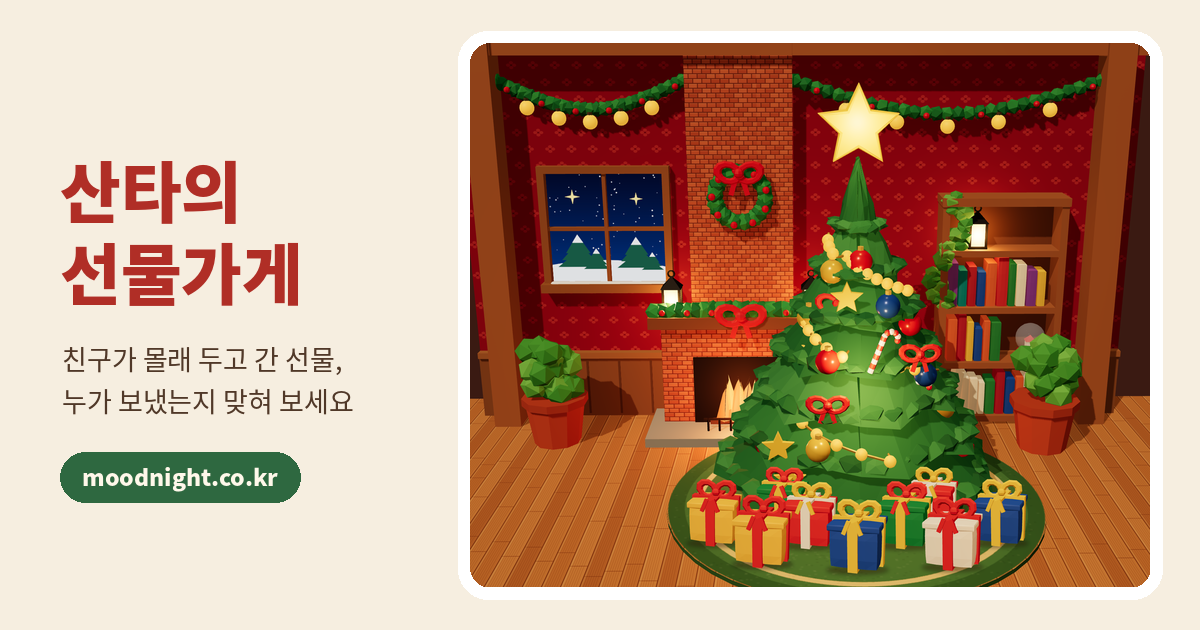
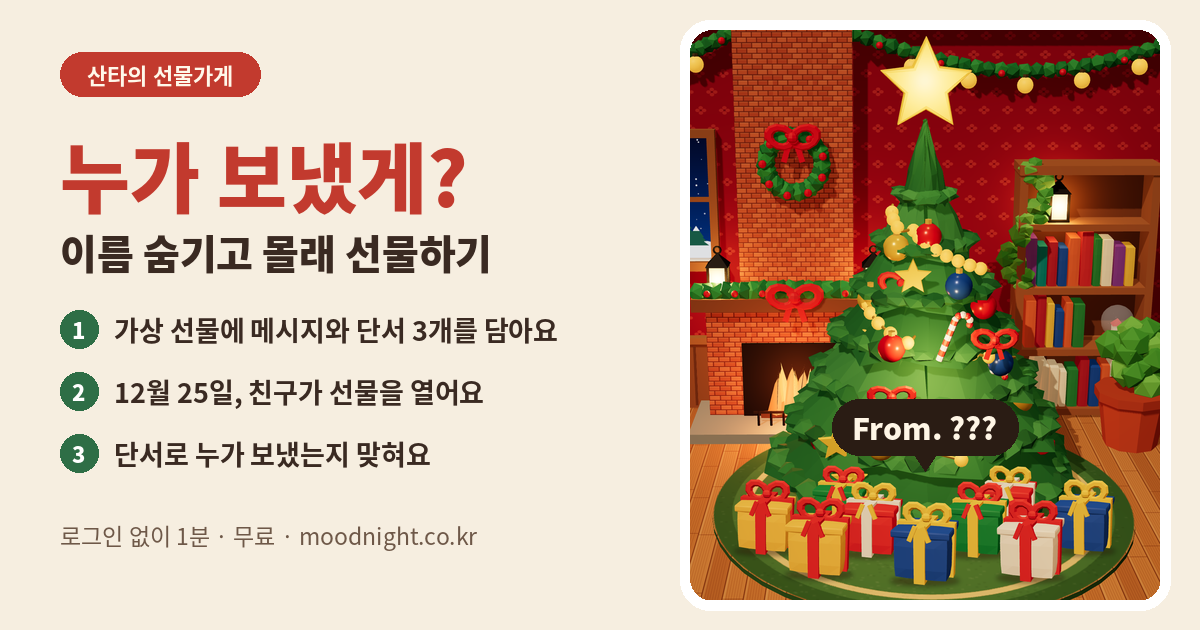
산타 공유 미리보기: 방 그림 대신 '누가 보냈게?' 놀이 설명 카드
Claude-Session: https://claude.ai/code/session_012CHPn4F2m2Dq3FTsxdD2UG

diff --git a/santa/app.js b/santa/app.js
@@ -264,7 +264,7 @@ function renderHost() {
   };
   $("#copyBtn").onclick = () => copyLink();
   $("#kakaoShare").onclick = kakaoShare;
-  if ($("#moreShare")) $("#moreShare").onclick = () => { window.mnTrack && mnTrack("share", "more"); navigator.share({ title: `${room.display_name}의 선물가게`, text: "몰래 선물을 두고 가 주세요. 크리스마스에 열어볼게요!", url: roomUrl() }).catch(() => {}); };
+  if ($("#moreShare")) $("#moreShare").onclick = () => { window.mnTrack && mnTrack("share", "more"); navigator.share({ title: `${room.display_name}의 선물가게`, text: "누가 보냈게? 이름 숨기고 몰래 선물이랑 단서 남겨 줘. 크리스마스에 누가 보냈는지 맞혀 볼게!", url: roomUrl() }).catch(() => {}); };
   $("#logout").onclick = logout;
   if ($("#cardBtn")) $("#cardBtn").onclick = openCard;
   $("#delRoom").onclick = askDelete;
@@ -321,14 +321,14 @@ function kakaoShare() {
     Kakao.Share.sendDefault({
       objectType: "feed",
       content: {
-        title: `${room.display_name}의 선물가게에 몰래 선물을 맡겨 주세요`,
-        description: "이름 숨기고 메시지랑 단서 남겨 줘. 크리스마스에 누가 보냈는지 맞혀 볼게! (로그인 없이 1분)",
-        imageUrl: "https://www.moodnight.co.kr/santa/og.png?v=5",
+        title: `누가 보냈게? ${room.display_name}에게 몰래 선물하기 🎁`,
+        description: "이름 숨기고 가상 선물에 메시지와 단서를 남겨 줘. 크리스마스에 누가 보냈는지 맞혀 볼게! 로그인 없이 1분",
+        imageUrl: "https://www.moodnight.co.kr/santa/og.png?v=6",
         imageWidth: 1200,
         imageHeight: 630,
         link: { mobileWebUrl: url, webUrl: url }
       },
-      buttons: [{ title: "선물 맡기러 가기", link: { mobileWebUrl: url, webUrl: url } }]
+      buttons: [{ title: "몰래 선물하러 가기", link: { mobileWebUrl: url, webUrl: url } }]
     });
   } catch (e) { copyLink(); }
 }

diff --git a/santa/index.html b/santa/index.html
@@ -7,9 +7,9 @@
 <meta name="description" content="친구들이 몰래 맡기고 간 선물과 메시지를 크리스마스에 열어 보고, 단서로 누가 보냈는지 맞히는 놀이. 링크 하나로 나만의 선물가게를 만들어 보세요.">
 <meta property="og:type" content="website">
 <meta property="og:site_name" content="무드나잇">
-<meta property="og:title" content="산타의 선물가게">
-<meta property="og:description" content="친구가 몰래 맡긴 선물, 누가 보냈는지 맞혀 보세요. 12월 25일에 열려요.">
-<meta property="og:image" content="https://www.moodnight.co.kr/santa/og.png?v=5">
+<meta property="og:title" content="누가 보냈게? 산타의 선물가게">
+<meta property="og:description" content="이름 숨기고 가상 선물에 메시지와 단서를 남기면, 크리스마스에 친구가 누가 보냈는지 맞혀요. 로그인 없이 1분.">
+<meta property="og:image" content="https://www.moodnight.co.kr/santa/og.png?v=6">
 <meta property="og:image:width" content="1200">
 <meta property="og:image:height" content="630">
 <meta name="twitter:card" content="summary_large_image">
@@ -366,7 +366,7 @@ a.btn{display:block;text-align:center;text-decoration:none;box-sizing:border-box
 <script src="https://cdn.jsdelivr.net/npm/@supabase/supabase-js@2.45.4/dist/umd/supabase.min.js"></script>
 <script src="https://t1.kakaocdn.net/kakao_js_sdk/2.7.2/kakao.min.js" crossorigin="anonymous"></script>
 <script src="/santa/gifts.js"></script>
-<script src="/santa/app.js?v=6"></script>
+<script src="/santa/app.js?v=7"></script>
 <script src="/door.js"></script>
 <script src="/music/player.js?v=5" defer></script>
 <script src="/track.js" defer></script>

diff --git a/santa/demo/index.html b/santa/demo/index.html
@@ -9,8 +9,8 @@
 <meta property="og:type" content="website">
 <meta property="og:site_name" content="무드나잇">
 <meta property="og:title" content="산타의 선물가게 체험판">
-<meta property="og:description" content="친구가 몰래 맡긴 선물, 누가 보냈는지 맞혀 보세요. 12월 25일에 열려요.">
-<meta property="og:image" content="https://www.moodnight.co.kr/santa/og.png?v=5">
+<meta property="og:description" content="이름 숨기고 가상 선물에 메시지와 단서를 남기면, 크리스마스에 친구가 누가 보냈는지 맞혀요. 로그인 없이 1분.">
+<meta property="og:image" content="https://www.moodnight.co.kr/santa/og.png?v=6">
 <meta property="og:image:width" content="1200">
 <meta property="og:image:height" content="630">
 <meta name="twitter:card" content="summary_large_image">
@@ -385,7 +385,7 @@ body.is-demo #kakaoShare,body.is-demo #moreShare,body.is-demo #logout,body.is-de
 <script src="/santa/room3d.js"></script>
 <script src="/santa/demo/demo-backend.js"></script>
 <script src="/santa/gifts.js"></script>
-<script src="/santa/app.js?v=6"></script>
+<script src="/santa/app.js?v=7"></script>
 <script>
 (function () {
   const tabs = { host: document.getElementById("tabHost"), guest: document.getElementById("tabSend") };
